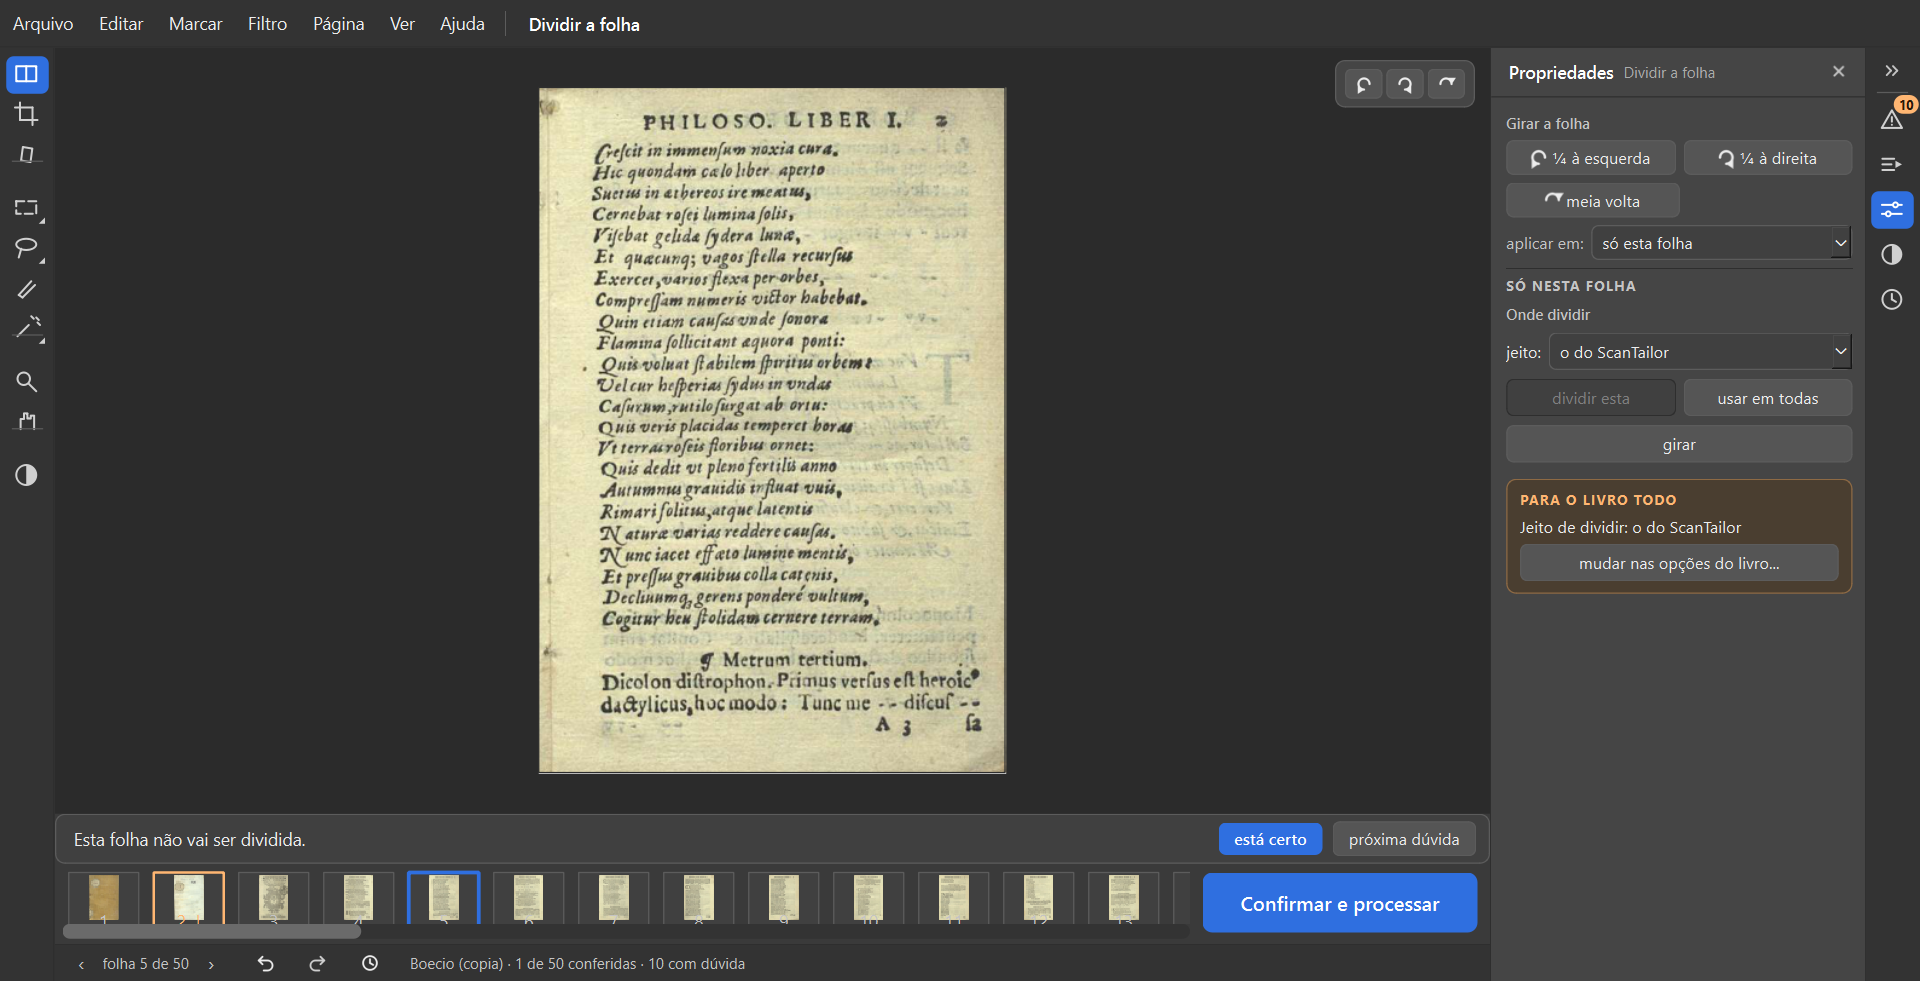
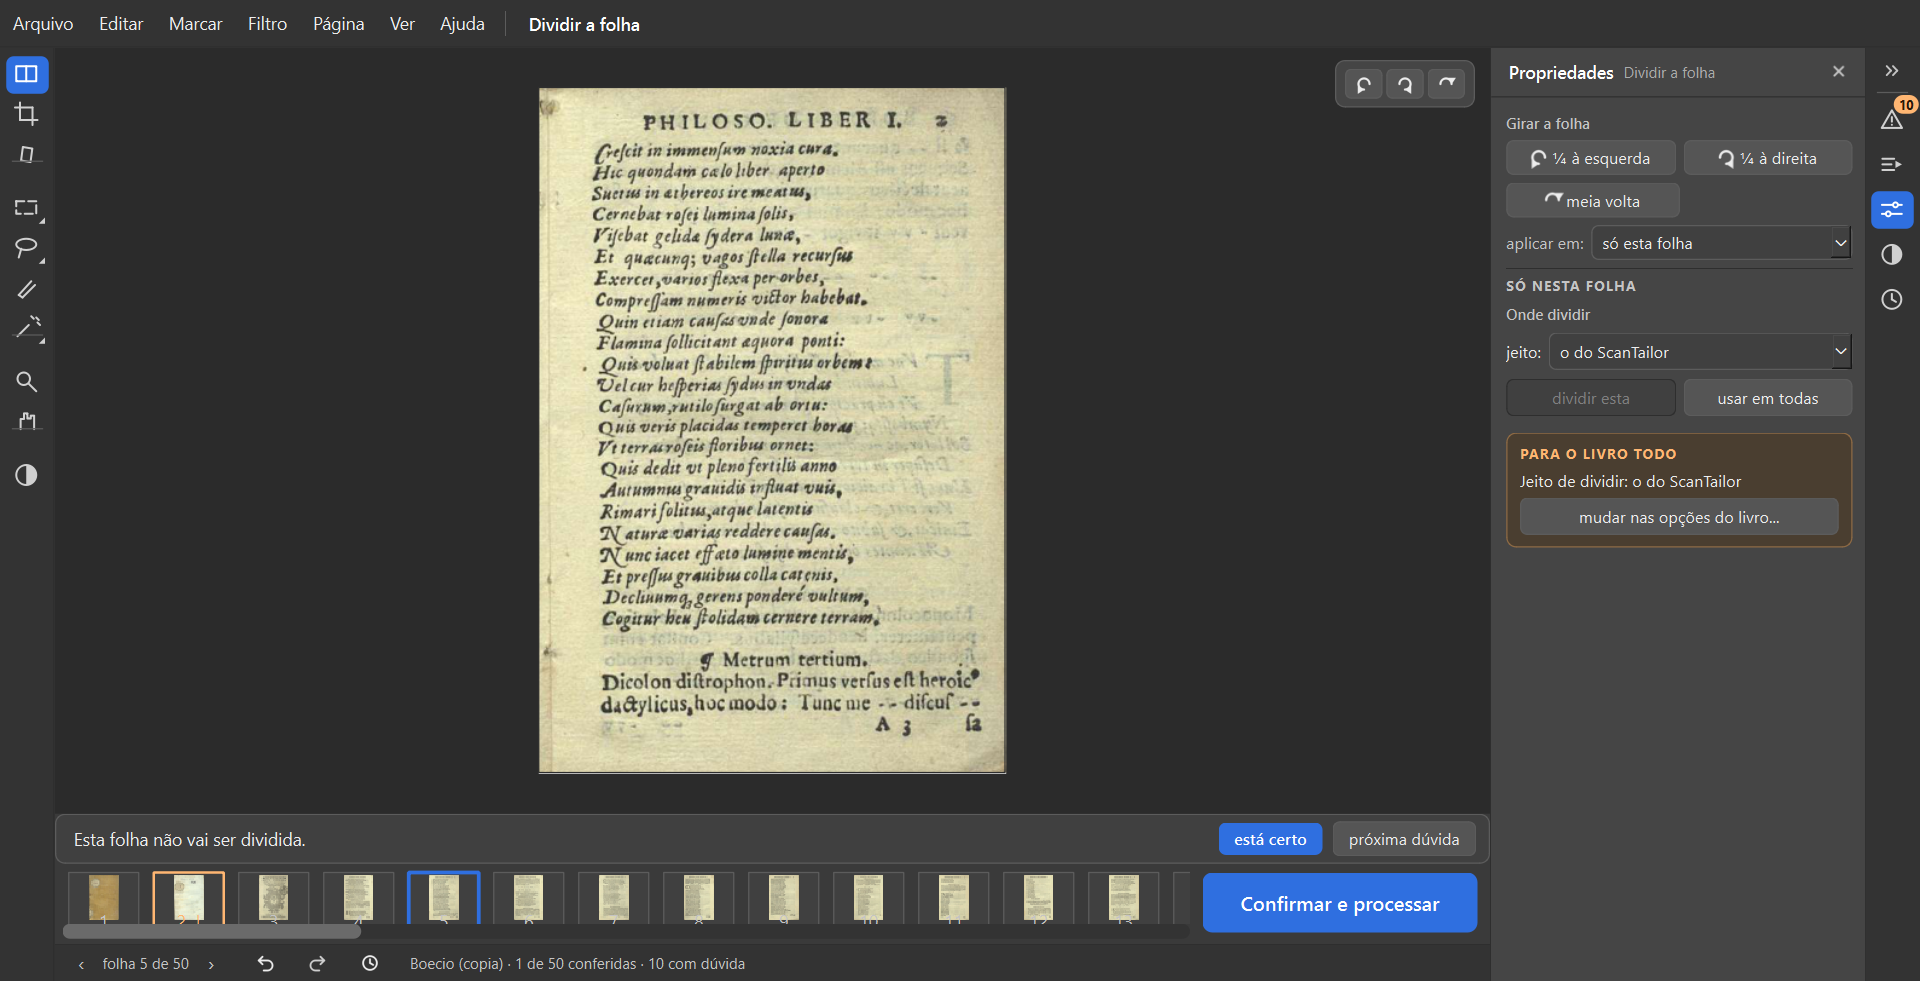
Layout: "a do Editor" tambem na tela "O que fazer"; prints refeitos e novos; ONDE-PAREI com os acertos
- A lista "Conta do endireitar" da tela "O que fazer" usa a mesma palavra
  dos paineis (so o texto; o codigo gravado continua "programa").
- Prints refeitos (mesmos nomes): 1-ao-abrir-o-livro, os do Para revisar
  (sugestao "deixar como veio", aviso com "a do Editor") e os do Dividir
  (um girar so). Novos: as tres listas abertas e o balao da trilha (com a
  letra do atalho), fotografados de verdade e colados no print da janela.
- ONDE-PAREI: as linhas mudadas em core/analise.py (106, 107 e 129), os textos
  com "aba" que nao troquei, e o que e leitura da gerente para o Samuel
  confirmar. teste_botoes: 221 acoes, 0 falhas.

Changed region(s): [[0.7812, 0.4281, 0.9688, 0.581]]

diff --git a/ui/tela_opcoes.py b/ui/tela_opcoes.py
@@ -118,6 +118,7 @@ from ui import estilo
 from ui.estilo import estilo_da_caixinha_com_quadrado
 from ui.widgets.escolhas_do_misto import EscolhasDoMisto
 from ui.widgets.folhear_pdf import FolhearPDF
+from ui.widgets.paineis import nome_da_conta
 
 FILTROS_NA_TELA = [
     (ORIGINAL, "Original", "não mexe na página"),
@@ -224,10 +225,12 @@ class TelaOpcoes(QWidget):
         self.rotulo_conta_endireitar = QLabel("Conta do endireitar:")
         self.combo_conta_endireitar = QComboBox()
         for jeito in endireitar_scantailor.JEITOS:
-            self.combo_conta_endireitar.addItem(endireitar_scantailor.NOMES_DOS_JEITOS[jeito], jeito)
+            # a mesma palavra dos paineis da tela de trabalho ("a do Editor":
+            # ui/widgets/paineis.nome_da_conta; o codigo gravado nao muda)
+            self.combo_conta_endireitar.addItem(nome_da_conta(jeito), jeito)
         self.combo_conta_endireitar.setToolTip(
             "Como a inclinação da página é medida: a conta do ScanTailor ou a do "
-            "programa. Quando as duas discordam mais de 0,3 grau, a página vai para "
+            "Editor. Quando as duas discordam mais de 0,3 grau, a página vai para "
             "\"Para revisar\". Dá para trocar numa página só, com a ferramenta Endireitar.")
         self.combo_conta_endireitar.currentIndexChanged.connect(lambda _i: self._mudou())
         linha.addWidget(self.rotulo_conta_endireitar)

diff --git a/tests/test_endireitar_na_tela.py b/tests/test_endireitar_na_tela.py
@@ -61,7 +61,7 @@ def test_livro_novo_pela_conta_do_scantailor_e_a_lista_so_com_endireitar(janela,
     assert not opcoes.linha_conta_endireitar.isHidden()
     assert [opcoes.combo_conta_endireitar.itemText(i)
             for i in range(opcoes.combo_conta_endireitar.count())] \
-        == ["a do ScanTailor", "a do programa"]
+        == ["a do ScanTailor", "a do Editor"]      # layout, rodada 13, 805 C (so o texto)
     assert opcoes.combo_conta_endireitar.currentData() == es.JEITO_SCANTAILOR
     assert janela.projeto.endireitar_como == es.JEITO_SCANTAILOR
     opcoes.combo_conta_endireitar.setCurrentIndex(

diff --git a/relatorios/layout-impl/ONDE-PAREI.md b/relatorios/layout-impl/ONDE-PAREI.md
@@ -17,6 +17,29 @@ Fontes das decisões: a página "Layout do Editor de Impressão" (rodadas 7 a 13
 5. A **linha dos menus** mostra só o nome da ferramenta e os ajustes dela.
 6. **Nomes novos:** "deixar como veio", "usar o ângulo do programa", "usar o corte do programa", "só esta folha / todas as folhas", "só esta página / todas as páginas", "daqui em diante" (no lugar de "só nas próximas"), "Editor" na linha da conta do Endireitar.
 
+## Acertos de 13/10, antes da conferência do Samuel (pedidos pela gerente)
+
+1. **Palavras antigas nos avisos (`core/analise.py`, exceção autorizada pela gerente; só texto).** Linhas mudadas, e mais nenhuma:
+   - **linha 106:** "A conta do ScanTailor e a do programa acharam…" → "A conta do ScanTailor e **a do Editor** acharam…" (805 C);
+   - **linha 107:** "…nesta página. Confira na aba Endireitar e escolha a conta que deixou " → "…nesta página. **Confira com a ferramenta Endireitar** e escolha a conta que deixou ";
+   - **linha 129:** a sugestão laranja "não endireitar esta" → "**deixar como veio**" (710 B).
+   Os códigos (`"angulo_zero"`, `CONTAS_DO_ENDIREITAR_DISCORDAM`) não mudaram. Outro agente mexe neste arquivo no ramo `fase2-para-revisar`: na junção, só estas três linhas vêm daqui.
+   **Textos com "aba" ou nome antigo que achei em `core/analise.py` e NÃO troquei:**
+   - **linhas 80-81 (aparece na tela):** "Não tenho certeza se esta página é desenho ou escrita. Confira na aba Marcar - se for escrita, marque como letra." Não é a mesma troca: não existe uma ferramenta chamada "Marcar" (são Retângulo, Oval, Laço, Ponto a ponto, Pincel, Varinha mágica e Pegar tudo desta cor; "Marcar" hoje é o nome de um menu). Precisa de frase nova, a decidir.
+   - **linhas 93-94 (comentário, não aparece):** "os três botões da aba Filtro" e "marcar a área na aba Marcar".
+   - **linhas 102-103 (comentário, não aparece):** "a escolha da conta (a do ScanTailor ou a do programa) fica na aba Endireitar".
+2. **Uma palavra só para a conta do Endireitar: "a do Editor".** A lista "Conta" do painel dizia "a do programa" e a linha logo abaixo, "Editor". Agora dizem "a do Editor": a lista "Conta" do Propriedades, a parte "Para o livro todo", o painel Automático, a frase que vai para o Histórico ao trocar de conta e a lista "Conta do endireitar" da tela "O que fazer" (com a dica dela). **ISTO É LEITURA DA GERENTE, PARA O SAMUEL CONFIRMAR:** a escolha dele (805 C) foi sobre a linha dos dois ângulos. A lista da tela "O que fazer" fui eu que incluí, pelo mesmo motivo (senão o painel Automático diria "a do Editor" e a tela "O que fazer", "a do programa"). O código gravado no projeto continua `"programa"`; o texto de `core/endireitar_scantailor.NOMES_DOS_JEITOS` não foi mexido (a tela usa `ui/widgets/paineis.nome_da_conta`). **O Dividir ("o do programa / o do ScanTailor") não foi mexido** (não decidido).
+3. **Um girar só no Dividir.** O botão "girar" antigo fazia exatamente o mesmo que o "¼ à direita" do bloco "Girar a folha" (os dois chamavam o mesmo giro, com o mesmo "aplicar em"). Saiu o antigo.
+4. **Duas coisas olhadas, nenhuma é efeito do layout novo (não consertei):**
+   - **Zoom: o "%" sem número** (`1-fechado-zoom.png`). Já era assim antes do layout: a barra de opções do Zoom sempre teve o deslizante "aproximar" seguido de um "%" fixo, sem número (`ui/widgets/barra_opcoes.py`, o mesmo código no `fase-1`). Para a Lista de bugs.
+   - **Endireitar: a linha "ScanTailor … · Editor …" some depois de girar à mão** (`7-endireitar-0,2-grau.png`). É de propósito e já era assim: com o ângulo à mão a conta não vale, a lista "Conta" fica apagada e a linha dos dois ângulos fica vazia (`_atualizar_conta_do_endireitar`; o teste `test_com_o_angulo_a_mao_a_lista_fica_apagada` cobra isso). O que dá para melhorar, e é escolha de tela: a lista apagada quase não se distingue da acesa, e nada diz por que a linha sumiu.
+5. **Também troquei** (em `ui/tela_opcoes.py`, minha área): duas dicas do mouse da tela "O que fazer" diziam "na aba Onde cortar" e "na aba Endireitar"; agora "com a ferramenta Dividir a folha" e "com a ferramenta Endireitar".
+
+**Prints refeitos (mesmos nomes):** `1-ao-abrir-o-livro` (agora é o livro como abre, na folha 1, sem mexer em nada; antes saía igual ao `1-fechado-dividir`), `2-painel-revisar`, `2-painel-revisar-por-motivo`, `2-painel-revisar-pagina-20`, `9-maximizada-painel-revisar`, `10-para-revisar-escuro`, `10-para-revisar-claro` (a sugestão "deixar como veio" e o aviso com "a do Editor"), `3-propriedades-dividir` e `9-maximizada-propriedades-dividir` (sem o "girar" repetido).
+**Prints novos:** `11-lista-aplicar-em-do-girar-aberta`, `11-lista-conta-aberta`, `11-lista-aplicar-em-do-endireitar-aberta`, `11-balao-da-trilha-cortar` (ferramenta sem letra de atalho: só o nome e a frase) e `11-balao-da-trilha-varinha` (a letra "[V]", a frase, e a outra ferramenta do mesmo botão com a letra "[C]"). **Como foram feitos:** a lista aberta e o balão são janelinhas à parte do Windows, que o print da janela fora da tela não pega; cada um foi fotografado de verdade (a peça do próprio programa, aberta na hora) e colado no print no lugar onde aparece. Não é desenho, mas é colagem: dizer isso ao Samuel.
+**`1-fechado-dividir.png` não mudou:** mostra o Dividir escolhido (o primeiro ícone da trilha aceso, "Dividir a folha" na linha dos menus), na folha 5, com o painel fechado pela pessoa.
+**Testes dos acertos (um arquivo por vez):** `test_paineis.py` 33, `test_paineis_na_tela.py` 22, `test_girar_na_tela.py` 22, `test_endireitar_na_tela.py` 5, `test_trilha_agrupada.py` 18, `test_dividir_na_tela.py` 9, `test_opcoes_da_gravura_na_tela.py` 15: todos passaram. Roteiro da janela de verdade: 51 de 51. `teste_botoes.py`: ver a ressalva 1. A bateria inteira de tela (43 arquivos) é a de antes destes acertos; não a rodei de novo.
+
 ## Etapa 1: temas (pronta, commit 7ebbc04)
 
 Os três temas, cinza de fábrica; a troca fica no menu Ver > Tema. A escolha fica na chave "tema" do `configuracoes.json` (5280490).
@@ -65,7 +88,7 @@ As abas sumiram (continuam por dentro, escondidas); trilha agrupada à esquerda;
 
 ## Prints (janela de verdade, tema cinza salvo onde dito)
 
-Pasta `relatorios/layout-impl/etapa3/`. Os de 1280 x 657 saem com 1600 x 821 pontos porque este PC amplia a tela em 125%. "Maximizada" é a janela no tamanho que teria maximizada nesta tela (1536 x 785), sem maximizar de verdade na tela do Samuel.
+Pasta `relatorios/layout-impl/etapa3/` (59 prints de depois, contando os 5 novos de 13/10, e 10 de antes). Os de 1280 x 657 saem com 1600 x 821 pontos porque este PC amplia a tela em 125%. "Maximizada" é a janela no tamanho que teria maximizada nesta tela (1536 x 785), sem maximizar de verdade na tela do Samuel.
 
 ### Antes e depois, nas mesmas telas
 
@@ -94,7 +117,7 @@ Pasta `relatorios/layout-impl/etapa3/`. Os de 1280 x 657 saem com 1600 x 821 pon
 - `2-painel-automatico.png`: **só o que existe hoje** (as etapas do livro e "Voltar para as opções"). Falta do desenho: receita, ordem arrastando, "ajustar ›", "Rodar N etapas", "escolher páginas…", janela grande (não existem no programa).
 - `2-painel-props.png`, `3-propriedades-cortar.png`, `3-propriedades-cortar-rolado.png`, `4-cortar-nao-cortar-esta.png`, `4-cortar-arrastado-com-o-painel-aberto.png`: decidido (as duas partes, os nomes novos, as caixinhas, girar no alto). **Diferente do desenho:** "meia volta" e "aplicar em" ficam em linhas separadas (com a letra do programa não cabem juntas em 300 px), e por isso o Cortar precisa de rolagem em 1280 x 657 (72 pontos); "Para o livro todo" só mostra e leva às opções; falta "Folga do corte" (não existe no programa).
 - `3-propriedades-endireitar.png`, `7-endireitar-0,2-grau.png`: decidido (nomes novos, "só esta página", "Editor"). Falta do desenho: "Retângulo do corte, nesta página" (o G6 juntado ao `fase-1` mudou a ordem do preparo, mas não traz essa escolha por página para a tela).
-- `3-propriedades-dividir.png`: decidido (duas partes). Diferente: "Onde dividir" é a lista "jeito:" de antes, e não as duas bolinhas; o botão "girar" de antes continua.
+- `3-propriedades-dividir.png`: decidido (duas partes). Diferente: "Onde dividir" é a lista "jeito:" de antes, e não as duas bolinhas.
 - `3-propriedades-marcar.png`: decidido (Propriedades com o "Marcar como", com a cor de cada um). **Antigo:** três jeitos em vez de cinco (705 A depende do processamento); os botões "Na área marcada" e os de marcar ainda embaixo da página.
 - `3-propriedades-zoom.png`, `3-propriedades-filtros-provisorio.png`: a frase de "sem propriedades" (decidido para Zoom e Mão; provisório nos filtros).
 - `4b-girado-pelo-canto.png`: decidido (canto gira só esta folha).
@@ -109,16 +132,18 @@ Pasta `relatorios/layout-impl/etapa3/`. Os de 1280 x 657 saem com 1600 x 821 pon
 
 ## Ressalvas e achados
 
-1. **`teste_botoes.py` (raiz):** precisei mexer nele (único arquivo fora de `ui/` e `tests/`), porque os botões de Dividir, Cortar e Endireitar saíram de onde ele os procurava. Ele agora abre o Propriedades, clica nos botões e caixinhas, na faixa, em cada ícone da direita e nos botões de girar do canto. **Última rodada (13/10, 02:51): 221 ações, 0 falhas** (no `fase-1`, no mesmo dia: 174 ações, 0 falhas). Foram precisas seis rodadas até chegar a zero, e todos os erros eram do roteiro, não do programa: a bateria clica em "apagar" e "restaurar" em vários lugares e dependia da ordem antiga dos cliques; com os botões em lugar novo, o livro de teste (duas páginas) chegava ao "Processar" sem página nenhuma. O último culpado era o próprio roteiro clicar só o "Desfazer" do painel Histórico, sem o "Refazer". O roteiro agora escreve, em cada parte, quais páginas estão apagadas. **Não conferi** se o `teste_botoes.py` passava no fim da etapa 2 (commit a783bd9); desconfio que não, porque as setas "<" e ">" dos lados da página, de que a ordem dependia, foram escondidas ali.
+1. **`teste_botoes.py` (raiz):** precisei mexer nele (único arquivo fora de `ui/` e `tests/`), porque os botões de Dividir, Cortar e Endireitar saíram de onde ele os procurava. Ele agora abre o Propriedades, clica nos botões e caixinhas, na faixa, em cada ícone da direita e nos botões de girar do canto. **Última rodada (13/10, 03:27, já com os acertos de 13/10): 221 ações, 0 falhas** (no `fase-1`, no mesmo dia: 174 ações, 0 falhas). Foram precisas seis rodadas até chegar a zero, e todos os erros eram do roteiro, não do programa: a bateria clica em "apagar" e "restaurar" em vários lugares e dependia da ordem antiga dos cliques; com os botões em lugar novo, o livro de teste (duas páginas) chegava ao "Processar" sem página nenhuma. O último culpado era o próprio roteiro clicar só o "Desfazer" do painel Histórico, sem o "Refazer". O roteiro agora escreve, em cada parte, quais páginas estão apagadas. **Não conferi** se o `teste_botoes.py` passava no fim da etapa 2 (commit a783bd9); desconfio que não, porque as setas "<" e ">" dos lados da página, de que a ordem dependia, foram escondidas ali.
 1b. **No "Para revisar", aba "Por página", a frase comprida de um aviso é cortada na segunda linha** (print `2-painel-revisar.png`: "…Confira na"). A frase inteira aparece no balão do mouse e na faixa embaixo da página.
 2. **Com os painéis fechados, os botões de Dividir, Cortar e Endireitar não aparecem** (só depois de escolher a ferramenta ou clicar no ícone do Propriedades). É o decidido (203 D + 802 A), mas é a mudança que o Kaique mais vai sentir.
-3. **A sugestão laranja do aviso ainda diz "não endireitar esta"** (print `2-painel-revisar.png`), e o botão novo se chama "deixar como veio". O texto vem de `core/analise.py` (fora de `ui/`): pedir ao implementador.
+3. (resolvido em 13/10: a sugestão laranja diz "deixar como veio"; ver "Acertos de 13/10".)
 4. **Botões de girar no canto** ficam por cima do canto da área da página (decidido na 703 D sabendo disso). Com a página larga ou com zoom podem cobrir um pedaço dela; no Endireitar ficam perto da bolinha azul.
 5. **No tema claro,** a bolinha da contagem tem letra escura sobre laranja escuro (lê-se mal).
 6. **Na janela mínima com um painel aberto,** os quatro cartões dos filtros ficam apertados (tela provisória).
 7. **A contagem do "Para revisar"** passou a contar páginas (como a barra de baixo), e não mais avisos (uma página com dois avisos contava duas vezes).
 
 ### Bugs que já existiam (não consertados; para a Lista de bugs, 13/10/2026)
+
+- **Zoom: "%" sem número** na linha dos menus (print `1-fechado-zoom.png`); já era assim no `fase-1`.
 
 - **Menu Ver > "Painel: Para revisar / Marcar como / Filtro da página / Histórico": os quatro itens não fazem nada** (nunca foram ligados a nada; `ui/janela_principal.py` não tem `ligar("painel_…")`). A lista dos painéis no menu Ver está na rodada 14.
 - **Histórico: "Conferir a pagina 5", sem acento** (print `5-historico-com-uma-desfeita.png`; a frase nasce em `ui/tela_conferir._marcar_revisada` e fica gravada no histórico de ações).
